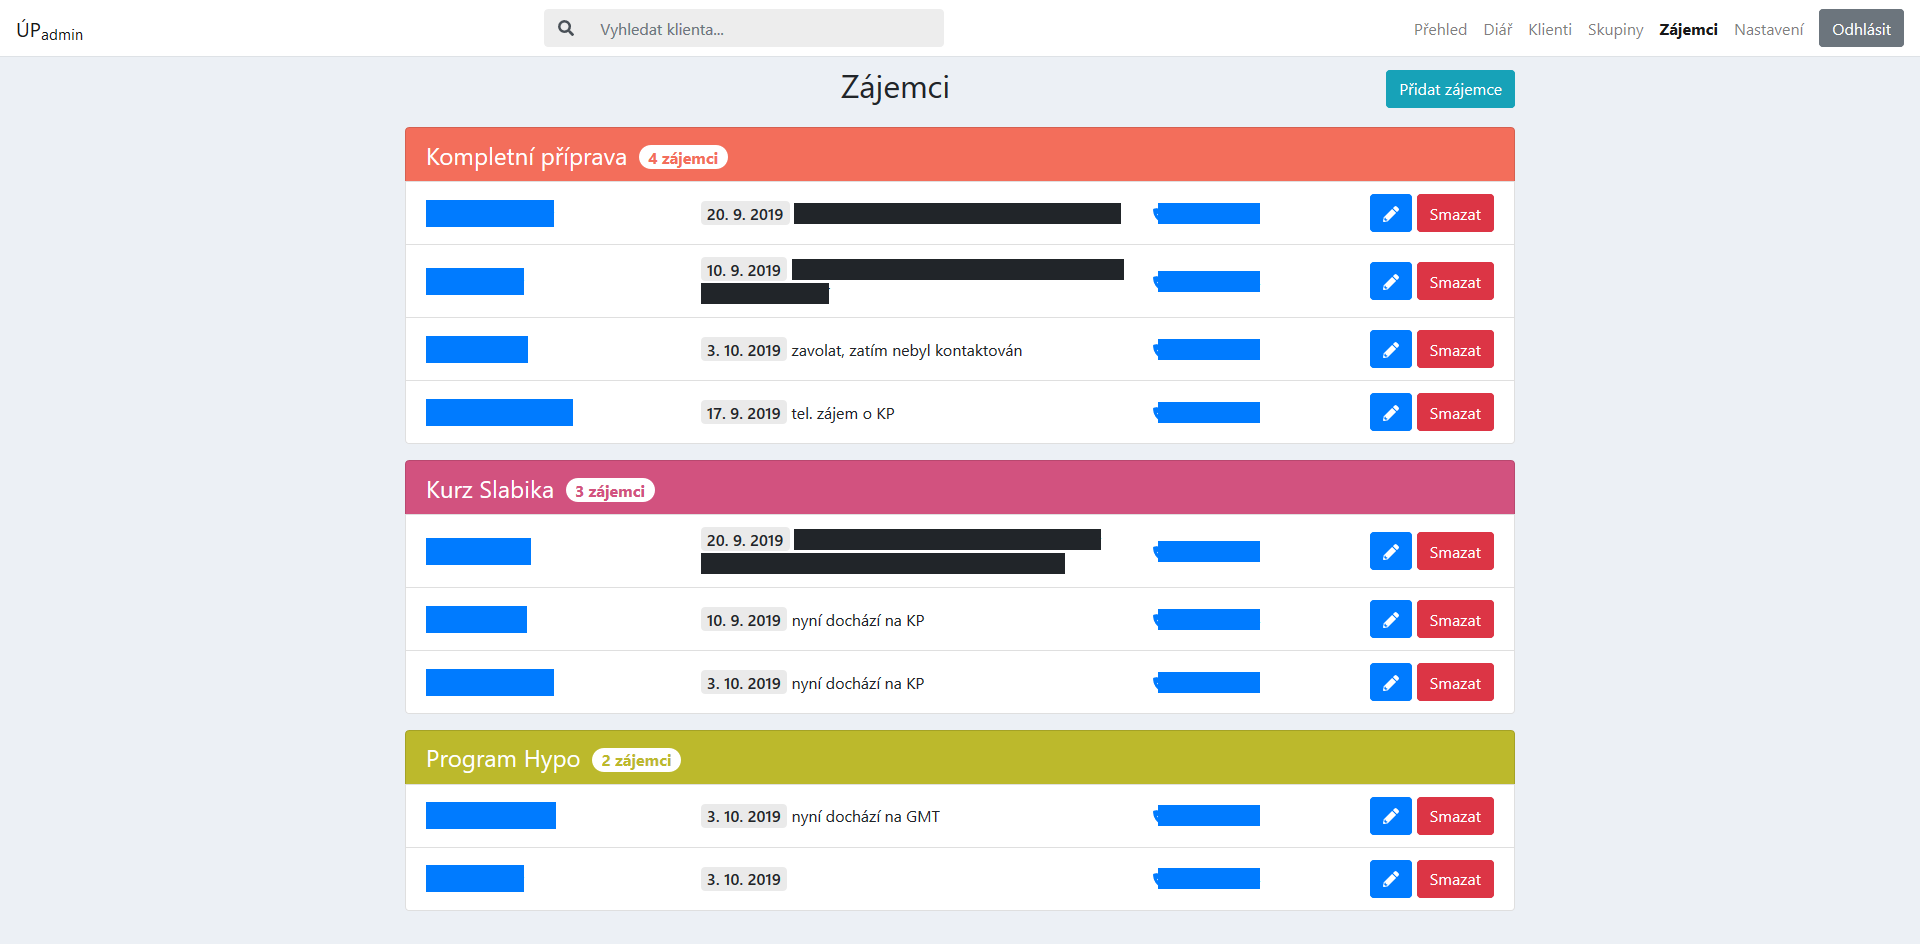
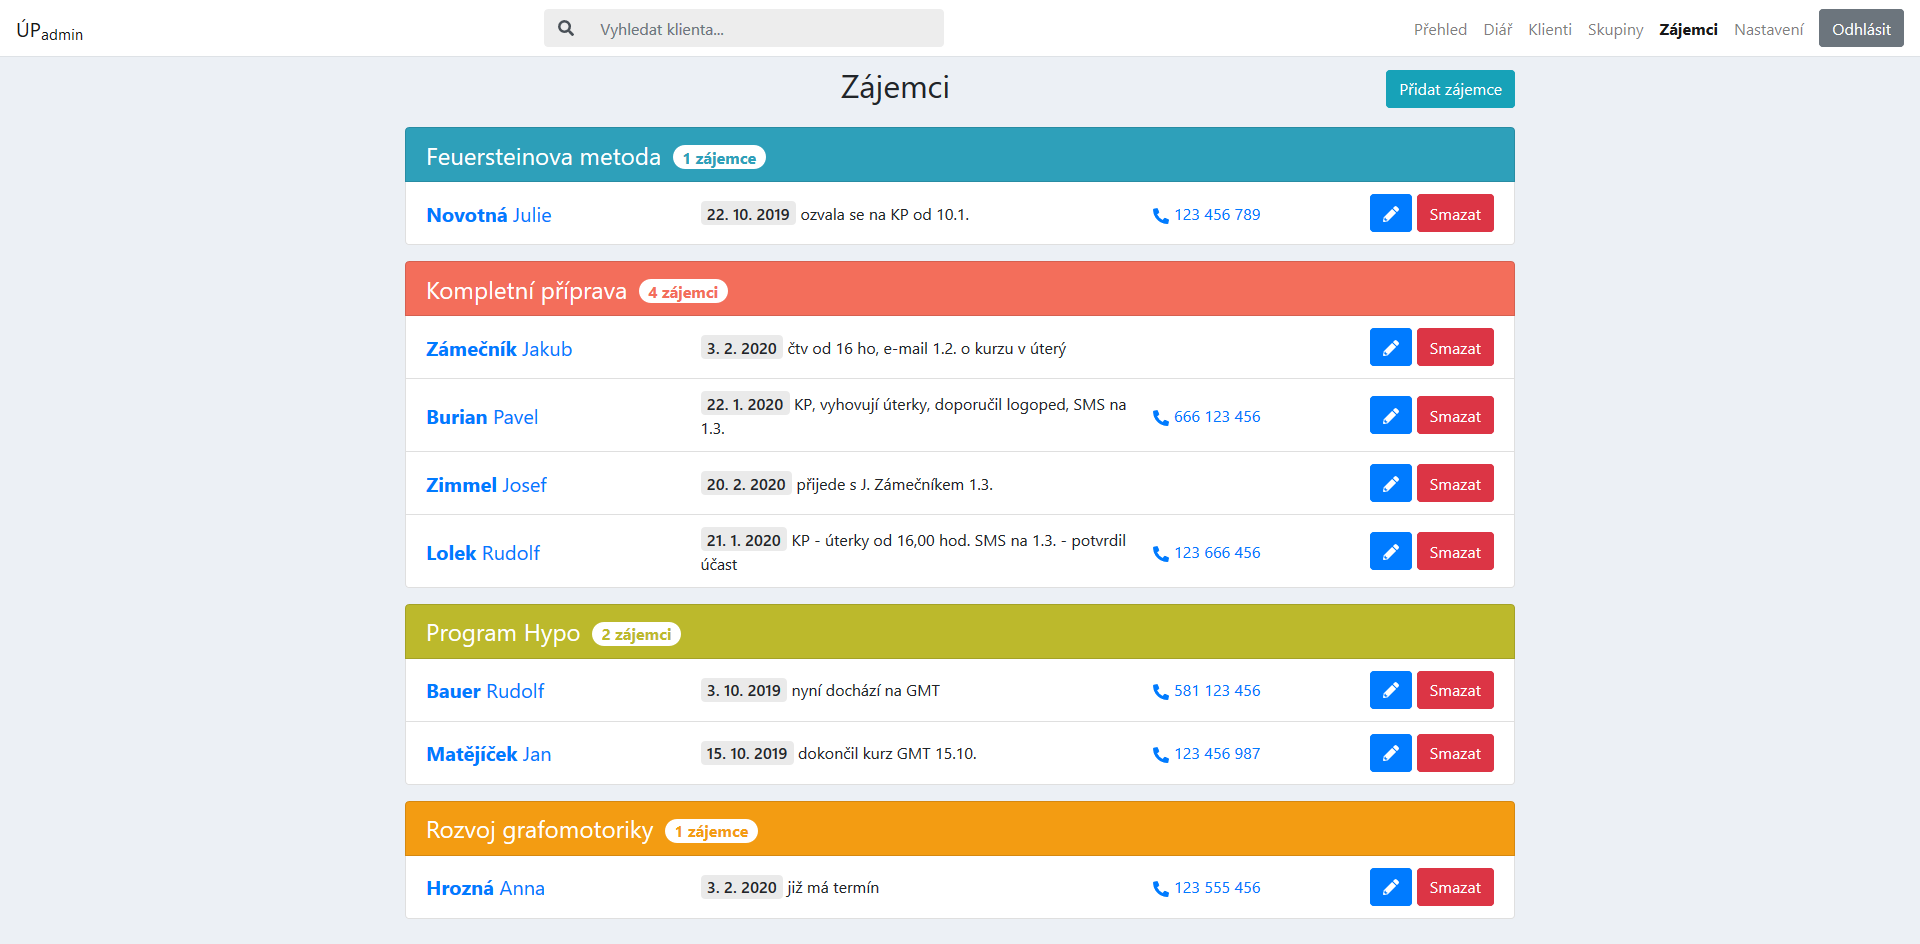
[docs] doplneni a vylepseni screenshotu
[skip ci]

Changed region(s): [[0.1875, 0.2765, 0.8125, 0.9831], [0.1875, 0.1229, 0.8125, 0.2458]]

diff --git a/README.md b/README.md
@@ -346,11 +346,15 @@ Aplikace obsahuje rozsáhlé API a UI testy – vizte
 
 ## Screenshoty z aplikace
 
-> **Poznámka:** modré/černé obdelníky skrývají citlivé údaje.
+> **Poznámka:** údaje v aplikaci jsou smyšlené.
 
 ### Diář
 
 [![screenshot z diáře](docs/screenshots/diary.png)](https://raw.githubusercontent.com/rodlukas/UP-admin/master/docs/screenshots/diary.png)
+
+### Přehled (hlavní stránka)
+
+[![screenshot z přehledu](docs/screenshots/dashboard.png)](https://raw.githubusercontent.com/rodlukas/UP-admin/master/docs/screenshots/dashboard.png)
 
 ### Karta klienta
 
@@ -359,6 +363,10 @@ Aplikace obsahuje rozsáhlé API a UI testy – vizte
 ### Zájemci o kurzy
 
 [![screenshot ze zájemců o kurzy](docs/screenshots/applications.png)](https://raw.githubusercontent.com/rodlukas/UP-admin/master/docs/screenshots/applications.png)
+
+### Nastavení
+
+[![screenshot z nastavení](docs/screenshots/settings.png)](https://raw.githubusercontent.com/rodlukas/UP-admin/master/docs/screenshots/settings.png)
 
 ## Licence
 
